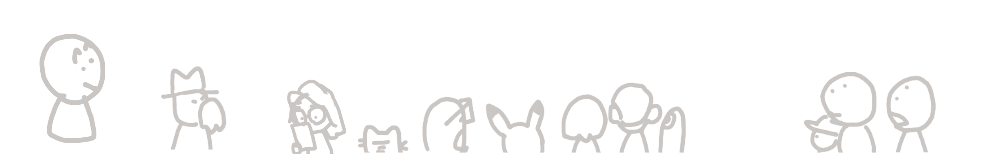
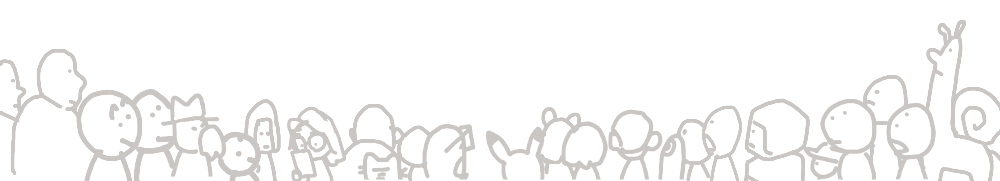
updated audience art

Changed region(s): [[0.0, 0.1039, 1.0, 1.0], [0.0, 0.9091, 0.031, 0.961]]

diff --git a/src/routes/+page.svelte b/src/routes/+page.svelte
@@ -32,7 +32,7 @@
 
 <style lang="scss">
 	.audience {
-		width: 60rem;
+		width: 100%;
 		position: fixed;
 		pointer-events: none;
 		overflow: hidden;
